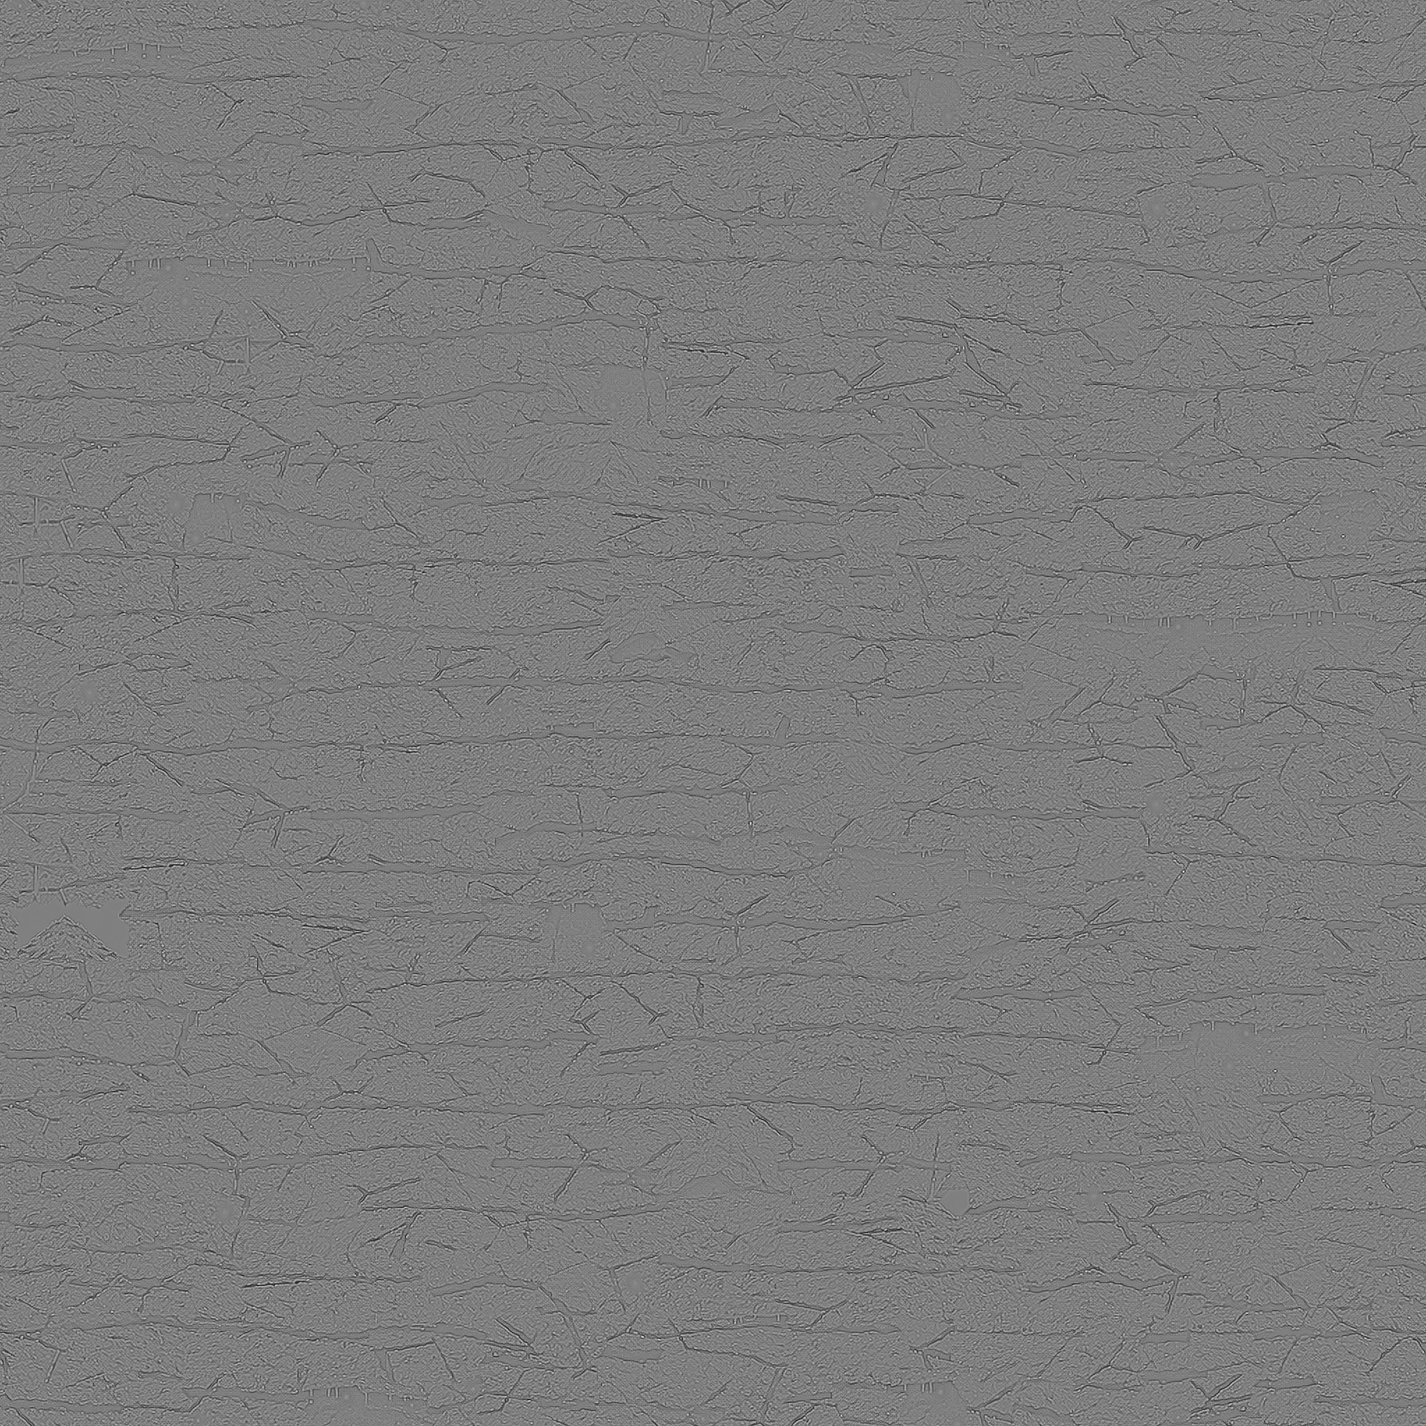
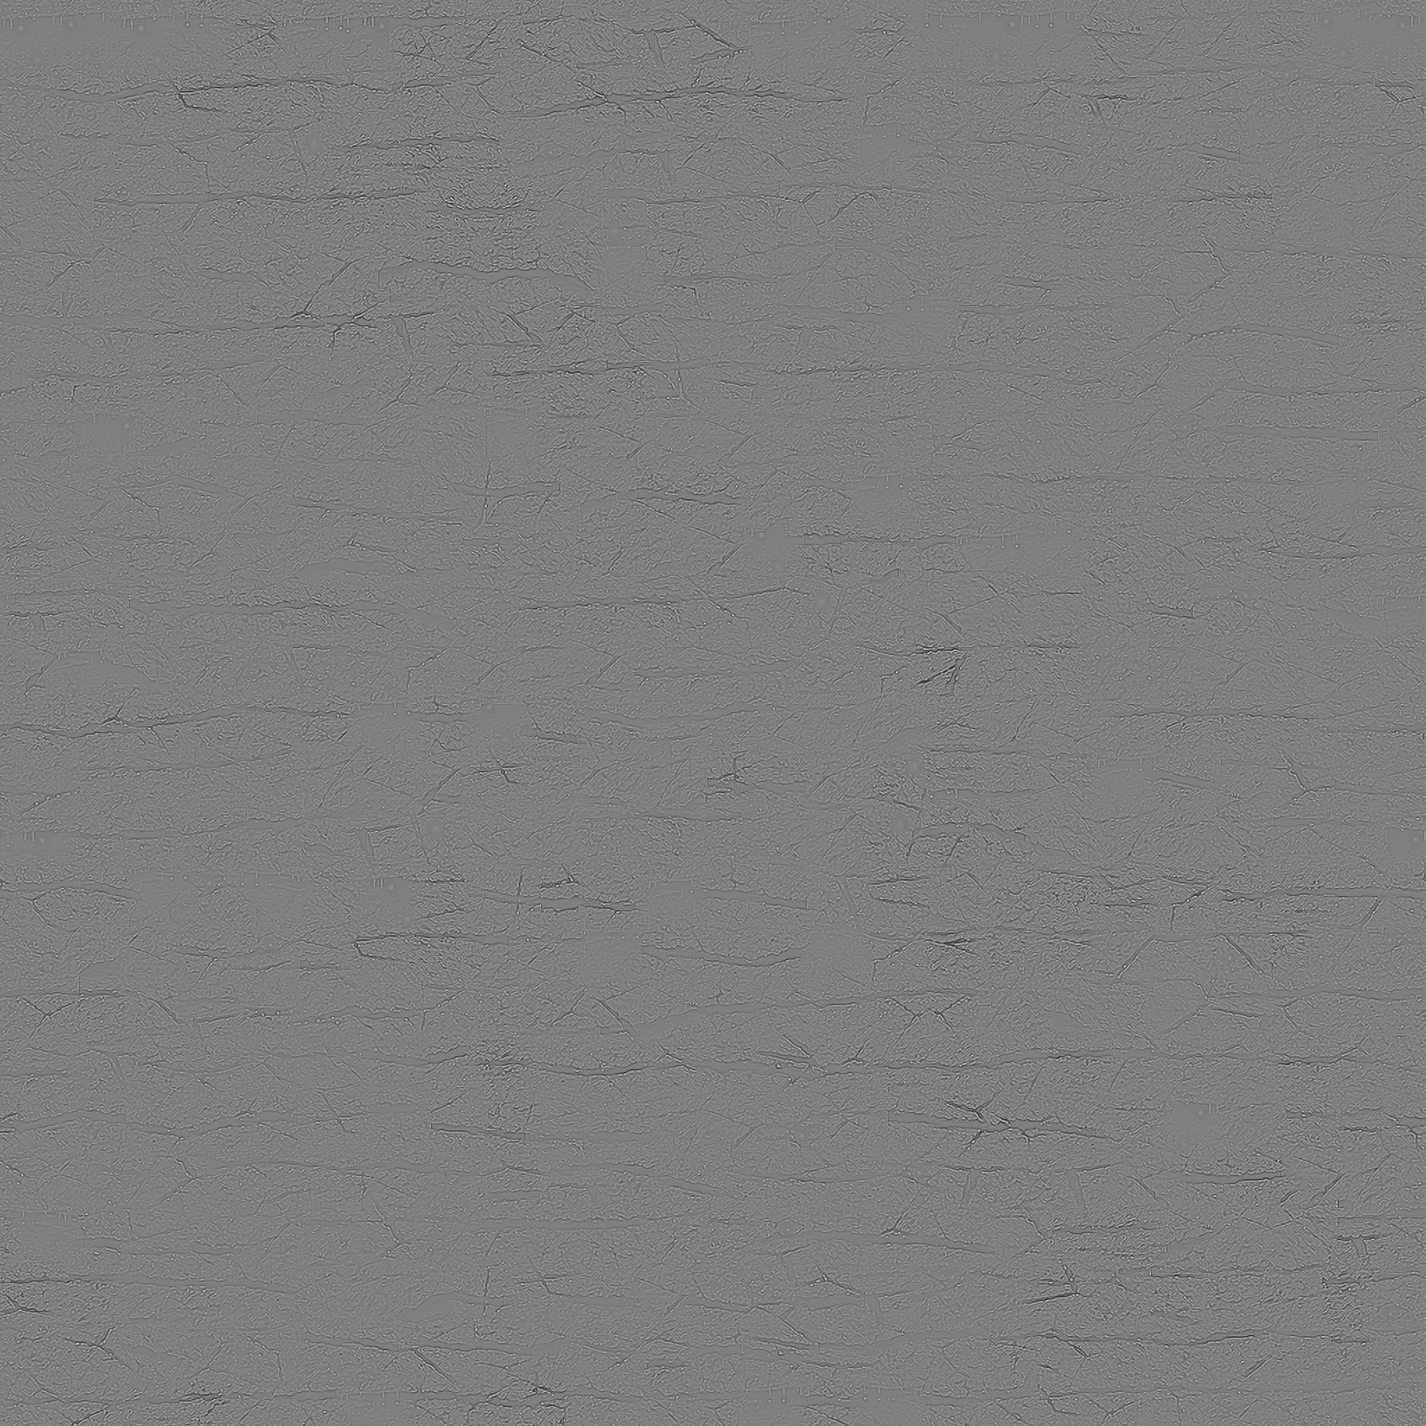
Версия 2026.10.16-21: артефакты карт — скелет вместо значка-«вайфай», вулкан без кусков неба в породе, базальт без «забора», тёмная шахта, останцы каньона и вулкана больше не висят (лестницы с обеих сторон), колонны под парковкой
Claude-Session: https://claude.ai/code/session_01JvXrYdG1XCH4i3GESsQzbh

Changed region(s): [[0.0, 0.0, 1.0, 1.0]]

diff --git a/js/levels.js b/js/levels.js
@@ -196,8 +196,9 @@ const MAP_CANYON = buildLevel({
   // останцы по краям плато — снайперские вышки с лестницами
   B.add(Sh.poly([[66, 970], [78, 800], [90, 720], [110, 690], [146, 694], [162, 730], [172, 820], [182, 910]], { mat: 'rock', rough: 3 }), Sh.ellipse(126, 684, 40, 18, { mat: 'rock', rough: 3 }));
   B.ladder(206, 668, 902);
-  B.add(Sh.poly([[4540, 962], [4550, 860], [4562, 780], [4582, 748], [4618, 752], [4630, 790], [4636, 880], [4630, 962]], { mat: 'rock', rough: 3 }), Sh.ellipse(4598, 742, 40, 18, { mat: 'rock', rough: 3 }));
-  B.ladder(4516, 726, 956);
+  /* останец стоит левее прохода к мосту: проход (cut у district) раньше срезал его основание, и скала висела в воздухе */
+  B.add(Sh.poly([[4386, 962], [4396, 860], [4408, 780], [4428, 748], [4464, 752], [4476, 790], [4482, 880], [4476, 962]], { mat: 'rock', rough: 3 }), Sh.ellipse(4444, 742, 40, 18, { mat: 'rock', rough: 3 }));
+  B.ladder(4362, 726, 956); B.ladder(4500, 726, 956);   /* останец перекрывает тропу к мосту — лестницы с обеих сторон */
   B.bridge(2330, 1548, 2470, 1548, { mat: 'wood', thick: 10, sag: 14, pal: PAL.lightWood, rails: true });
   // Великая арка
   B.add(Sh.band(1236, 904, 3514, 952, { thick: 100, sag: -470, mat: 'rock', rough: 5 }));
@@ -209,7 +210,7 @@ const MAP_CANYON = buildLevel({
   B.ladder(3940, 1152, 1358); B.ladder(4260, 946, 1152);
   B.tower(3700, 946, 150, { mat: 'wood', pal: PAL.lightWood, wall: 12, slab: 12, stories: [80], windows: false, found: 30 });
   B.decor(['cactus', 240, null, 1.1], ['watertower', 760], ['cactus', 980, null, 0.9], ['deadtree', 1180, null, 1], ['column', 1310, 1150, 1], ['column', 1270, 1150, 1], ['pot', 1100, 1150], ['pot', 1140, 1150, 0.8], ['skull', 1680, 1400],
-    ['cactus', 2100, null, 1], ['skull', 2600, null], ['cactus', 2960, null, 0.9], ['tumbleweed', 2700, null, 1], ['cactus', 3600, null, 1.2], ['deadtree', 4050, null, 0.9], ['watertower', 4450], ['cactus', 4560, null, 0.8]);
+    ['cactus', 2100, null, 1], ['skull', 2600, null], ['cactus', 2960, null, 0.9], ['tumbleweed', 2700, null, 1], ['cactus', 3600, null, 1.2], ['deadtree', 4050, null, 0.9], ['watertower', 4160], ['cactus', 4432, null, 0.8]);
   district(B, { from: [4650, 956], gy: 960, water: 1700, mat: 'brick', pal: P_SAND, cut: () => [Sh.cut(Sh.rect(4490, 902, 180, 52))], bridge: { mat: 'wood', pal: PAL.lightWood }, decor: [['cactus', 4970], ['cactus', 6190, null, 1.2], ['skull', 5900]], props: [['torch', 4990, 960], ['torch', 5770, 960]] });
 });
 
@@ -268,8 +269,9 @@ const MAP_VOLCANO = buildLevel({
   // базальтовое нагорье с рудником
   B.ground([[3420, 1810], [3426, 1600], [3434, 1400], [3444, 1300, 1], [3500, 1282], [3600, 1252], [3700, 1212], [3800, 1172], [3900, 1152], [4100, 1148], [4300, 1152], [4450, 1160], [4560, 1170], [4640, 1180, 1], [4652, 1300], [4660, 1500], [4668, 1810]], { mat: 'basalt', rough: 3 });
   B.tower(3960, 1150, 220, { mat: 'metal', pal: PAL.steel, wall: 14, slab: 14, stories: [100, 90], ladders: [40, 186], found: 40 });
-  B.add(Sh.poly([[4560, 1180], [4566, 1000], [4584, 960], [4620, 956], [4640, 1000], [4652, 1180]], { mat: 'basalt', rough: 1 }));
-  B.ladder(4536, 952, 1170);
+  /* столб левее прохода к мосту (cut у district срезал его основание — висел в воздухе) */
+  B.add(Sh.poly([[4446, 1180], [4452, 1000], [4470, 960], [4506, 956], [4526, 1000], [4532, 1180]], { mat: 'basalt', rough: 1 }));
+  B.ladder(4422, 952, 1170); B.ladder(4556, 952, 1170);   /* столб перекрывает тропу к мосту — лестницы с обеих сторон */
   B.tunnel([[3500, 1290], [3640, 1330], [3800, 1340], [3960, 1336], [4100, 1330], [4200, 1320]], 70, { arch: 6 });
   B.ladder(4150, 1150, 1322);
   B.decor(['deadtree', 260, null, 1.1], ['spike', 400, null, 1], ['obsidian', 900], ['deadtree', 1060, null, 0.9], ['bones', 1780], ['deadtree', 2000, null, 0.8], ['spike', 2800, null, 1.2], ['deadtree', 2950, null, 0.9], ['obsidian', 3600], ['deadtree', 3760, null, 1], ['bones', 4250], ['spike', 4560, null, 1.1]);
@@ -407,6 +409,8 @@ const MAP_CITY = buildLevel({
   house(1300, 200, 3, P_TOWER('#3c3a4a', '#ffcf70', 0.4), 30);
   // парковка: открытые перекрытия
   for (const y of [1420, 1340, 1260]) B.add(Sh.rect(1580, y, 380, 14, { mat: 'concrete', pal: { base: '#5a5e66', road: true } }));
+  /* многоярусная парковка: колонны за перекрытиями (задний план, не мешают ходить) — плиты больше не висят в воздухе */
+  for (const x of [1592, 1700, 1830, 1940]) B.add(Sh.rect(x, 1260, 12, 240, { mat: 'concrete', back: true, pal: { base: '#4a4e56' } }));
   B.ladder(1606, 1420, 1500); B.ladder(1934, 1340, 1420); B.ladder(1606, 1260, 1340);
   // эстакада над каналом
   B.add(Sh.rect(1480, 1194, 1200, 26, { mat: 'concrete', pal: { base: '#5a5e66', road: true } }));

diff --git a/js/decor.js b/js/decor.js
@@ -416,10 +416,36 @@ const DECOR = {
     if (g) { g.strokeStyle = 'rgba(255,90,20,0.8)'; g.lineWidth = 2; g.beginPath(); g.moveTo(x + 2, y - h * 0.2); g.lineTo(x - 2, y - h * 0.5); g.lineTo(x + 3, y - h * 0.7); g.stroke(); }
     c.strokeStyle = '#ff7a2a'; c.lineWidth = 0.8; c.beginPath(); c.moveTo(x + 2, y - h * 0.2); c.lineTo(x - 2, y - h * 0.5); c.lineTo(x + 3, y - h * 0.7); c.stroke();
   },
-  bones(c, g, x, y, s) {
-    c.strokeStyle = '#d9cfb8'; c.lineWidth = 2.2 * s; c.lineCap = 'round';
-    for (let i = 0; i < 4; i++) { c.beginPath(); c.arc(x, y + 2, (8 + i * 4) * s, Math.PI * 1.1, Math.PI * 1.45); c.stroke(); }
-    c.beginPath(); c.moveTo(x - 20 * s, y); c.lineTo(x + 6 * s, y - 2 * s); c.stroke();
+  bones(c, g, x, y, s, r) {
+    /* полузасыпанный скелет: позвоночник лежит на земле, рёбра поднимаются дугами и уходят концами в грунт, череп с глазницей.
+       Кость — выбеленная, с тёмным контуром и тенью снизу; рёбра разной длины и наклона */
+    const rr = r ? () => r() : Math.random, dir = rr() < 0.5 ? -1 : 1, L = 34 * s, y0 = y - 1.5 * s;
+    c.save(); c.lineCap = 'round'; c.lineJoin = 'round';
+    c.fillStyle = 'rgba(20,12,8,0.35)'; c.beginPath(); c.ellipse(x, y + 1, L * 0.62, 3.2 * s, 0, 0, TAU); c.fill();
+    const bone = (w, path) => { c.strokeStyle = '#3b2f24'; c.lineWidth = w + 1.6 * s; path(); c.stroke(); c.strokeStyle = '#cfc2a4'; c.lineWidth = w; path(); c.stroke(); c.strokeStyle = 'rgba(255,250,232,0.75)'; c.lineWidth = Math.max(0.6, w * 0.35); c.save(); c.translate(-0.4 * s, -0.5 * s); path(); c.stroke(); c.restore(); };
+    /* рёбра: от позвоночника вверх и наружу, концы утоплены */
+    const nR = 5 + Math.floor(rr() * 2);
+    for (let i = 0; i < nR; i++) {
+      const sx = x - L * 0.38 + i * (L * 0.62 / nR), h = (11 + rr() * 6) * s * (1 - Math.abs(i - nR / 2) / nR * 0.6), lean = (rr() - 0.5) * 4 * s + dir * 3 * s;
+      bone(1.5 * s * (1 - i * 0.04), () => { c.beginPath(); c.moveTo(sx, y0); c.bezierCurveTo(sx + lean - 4 * s, y0 - h * 0.9, sx + lean + 7 * s, y0 - h * 1.05, sx + lean + 9 * s, y + 1); });
+    }
+    /* позвоночник */
+    for (let i = 0; i < 9; i++) {
+      const vx = x - L * 0.48 + i * L * 0.11, vy = y0 + Math.sin(i * 0.7) * 0.8 * s;
+      c.fillStyle = '#3b2f24'; c.beginPath(); c.ellipse(vx, vy, 2.6 * s, 2.1 * s, 0, 0, TAU); c.fill();
+      c.fillStyle = i % 2 ? '#d6caae' : '#c7b998'; c.beginPath(); c.ellipse(vx - 0.3 * s, vy - 0.3 * s, 2.0 * s, 1.6 * s, 0, 0, TAU); c.fill();
+    }
+    /* череп на конце позвоночника */
+    const kx = x + dir * L * 0.55, ky = y - 3 * s;
+    c.save(); c.translate(kx, ky); c.scale(dir, 1);
+    c.fillStyle = '#3b2f24'; c.beginPath(); c.moveTo(-5 * s, -4 * s); c.quadraticCurveTo(2 * s, -7.5 * s, 11 * s, -2.5 * s); c.lineTo(12 * s, 1.5 * s); c.quadraticCurveTo(3 * s, 3.5 * s, -5 * s, 3 * s); c.closePath(); c.fill();
+    c.fillStyle = '#d3c6a8'; c.beginPath(); c.moveTo(-4 * s, -3.2 * s); c.quadraticCurveTo(2 * s, -6.5 * s, 10.3 * s, -2 * s); c.lineTo(11 * s, 1 * s); c.quadraticCurveTo(3 * s, 2.6 * s, -4 * s, 2.2 * s); c.closePath(); c.fill();
+    c.fillStyle = '#2a201a'; c.beginPath(); c.ellipse(1.5 * s, -2 * s, 1.8 * s, 1.3 * s, -0.2, 0, TAU); c.fill();
+    c.fillStyle = 'rgba(255,250,230,0.6)'; c.fillRect(-2 * s, -4.5 * s, 7 * s, 0.8 * s);
+    c.restore();
+    /* засыпка: песок/пепел поверх нижних концов */
+    c.fillStyle = 'rgba(60,44,34,0.55)'; for (let i = 0; i < 7; i++) { c.beginPath(); c.ellipse(x - L * 0.5 + i * L * 0.17 + rr() * 3, y + 0.5, (3 + rr() * 3) * s, 1.4 * s, 0, 0, TAU); c.fill(); }
+    c.restore();
   },
   obsidian(c, g, x, y, s, r) {
     c.fillStyle = hgrad(c, x - 10 * s, x + 10 * s, ['#3a2e4a', '#16121c', '#050407']);

diff --git a/js/terrain_visual.js b/js/terrain_visual.js
@@ -152,6 +152,10 @@ function caveAO(m, i, W, y, bk, H) {
   let k = 1;
   for (let q = 1; q < 70; q++) if (y - q >= 0 && m[i - q * W]) { const t = q / 70; k = 0.52 + 0.48 * t * (2 - t); break; }
   for (let q = 1; q < 40; q++) if (y + q < H && m[i + q * W]) { k *= 1 + 0.22 * (1 - q / 40) * (1 - q / 40); break; }
+  /* узкая шахта (стены слева и справа ближе 110 px): свет туда почти не доходит — задняя стена темнее, особенно у боковых стен */
+  const x = i - y * W; let l = 0, r = 0;
+  for (let q = 1; q <= 110; q++) { if (!l && x - q >= 0 && m[i - q]) l = q; if (!r && x + q < W && m[i + q]) r = q; if (l && r) break; }
+  if (l && r && l + r >= 70) { const wdt = l + r, edge = Math.min(l, r) / (wdt / 2); k *= (0.58 + 0.2 * Math.min(1, wdt / 220)) * (0.78 + 0.22 * Math.sqrt(edge)); }   /* узкие лазы под лестницу не трогаем — они и так тёмные */
   return k;
 }
 /** нерезкое маскирование 3×3 (только внутри непрозрачных областей, без ореолов по краю) */
@@ -581,6 +585,11 @@ function shadeMaterial(S, mt, x, y, t, capT, d, info, o, isBack) {
         break;
       }
       case 9: { // базальтовые столбы со скруглёнными гранями
+        if (S.tx.rock) {
+          /* та же фото-порода, что у скал темы (как в эталоне), без нарисованных столбов: ровные полосы выглядели как забор или кладка */
+          texAt(S.tx.rock, x + 377, y + 211, o); r = o.r * S.tgR; g = o.g * S.tgG; bl = o.b * S.tgB; o.tex = true;
+          break;
+        }
         const cw = 16; const col = Math.floor(x / cw); const hh = hash3(col, 0, 4);
         const fx = x - col * cw; const yy = y + hh * 60; const seg = Math.floor(yy / 46); const fy = yy - seg * 46;
         const c = S.rockC[col % S.RL]; let f = 0.86 + hash3(col, seg, 8) * 0.28;

diff --git a/index.html b/index.html
@@ -29,7 +29,7 @@
       <div class="menu-facts"><div><strong>41</strong><span>вида оружия<br>и снаряжения</span></div><div><strong>08</strong><span>постоянных<br>полей боя</span></div><div><strong>02</strong><span>игрока.<br>один победитель.</span></div></div>
     </div>
     <div class="featured-map"><span class="eyebrow">ВЫБЕРИ СВОЁ ПОЛЕ БОЯ</span><div class="featured-title"><span id="featured-number">01 / 08</span><h2 id="featured-name">Зелёная долина</h2><div><button class="arrow-btn" data-act="map-prev" aria-label="Предыдущая карта">←</button><button class="arrow-btn" data-act="map-next" aria-label="Следующая карта">→</button></div></div><p id="featured-desc">Мельница на холме, пруд с мостом и тоннель под большим холмом</p><div class="map-dots" id="map-dots"></div><div class="static-label">◇ Фиксированная карта · Разрушаемое окружение</div></div>
-    <footer class="menu-footer"><span id="game-version">ВЕРСИЯ 2026.10.02-20</span><span>ПЛАНИРУЙ ХОД. МЕНЯЙ ЛАНДШАФТ.</span><span class="footer-status"><i></i> ГОТОВ К БОЮ</span></footer>
+    <footer class="menu-footer"><span id="game-version">ВЕРСИЯ 2026.10.16-21</span><span>ПЛАНИРУЙ ХОД. МЕНЯЙ ЛАНДШАФТ.</span><span class="footer-status"><i></i> ГОТОВ К БОЮ</span></footer>
   </section>
 
   <!-- Онлайн -->

diff --git a/dev/tex_from_ref.py b/dev/tex_from_ref.py
@@ -10,6 +10,7 @@ python dev/tex_from_ref.py <эталон.png> <выход.png> <масштаб> 
 Их значения можно задать через PATCH_SIZE, OVERLAP, FEATHER, SEED, CANDIDATES,
 MIRROR, BRIGHTNESS, REUSE_PENALTY. FEATHER — радиус: 24 означает полосу смешивания в 49 px.
 DESPECKLE=1 убирает одиночные яркие точки снега/искр до синтеза.
+SKYMASK=1 не берёт лоскуты с кусками неба/фона (голубые пиксели).
 """
 import argparse
 import math
@@ -18,6 +19,8 @@ import numpy as np
 from PIL import Image, ImageFilter
 
 DESPECKLE = os.environ.get('DESPECKLE', '').lower() not in ('', '0', 'false', 'no')
+# SKYMASK=1: отбрасывать лоскуты, где попалось небо или дальний фон эталона (голубые пиксели)
+SKYMASK = os.environ.get('SKYMASK', '').lower() not in ('', '0', 'false', 'no')
 
 
 def load_sources(path, boxes, scale):
@@ -155,6 +158,9 @@ def quilt(srcs, size, B, O, seed=1, cands=64, feather=24, mirror=0.35, brightnes
                 height, width = s.shape[:2]
                 sy, sx = int(rng.integers(height - B + 1)), int(rng.integers(width - B + 1))
                 p = s[sy:sy + B, sx:sx + B]
+                if SKYMASK:
+                    q = p[::4, ::4]; sky = ((q[..., 2] > q[..., 0] + 12) & (q[..., 2] > 70)).mean()
+                    if sky > 0.004: continue
                 if rng.random() < mirror:
                     p = p[:, ::-1]
                 adjustment = 0.0

diff --git a/dev/NEXT_STEPS.md b/dev/NEXT_STEPS.md
@@ -4,6 +4,10 @@
 
 Последняя завершённая версия: **2026.10.02-18** (игровые правки по просьбе пользователя и первые родные текстуры ×4, см. ниже). Рабочая папка **D:\Територивар**, ветка **claude/hopeful-dirac-byxv27**. Это точка продолжения, а не завершение всего проекта.
 
+## Артефакты карт (B1) — ход работы 16.10
+- Критик осмотрел все 8 карт (отчёт — в истории чата; кадры test-results/map-crop). Исправлено: значки-«вайфай» (рёбра скелета) → полузасыпанный скелет (decor.js bones); куски неба в текстуре вулкана → пересборка `SKYMASK=1 dev/tex_from_ref.py` без лоскутов с небом; базальт вулкана «доски/забор» → фото-порода темы (terrain_visual case 9); широкие шахты (вулкан) темнее — caveAO учитывает боковые стены (ширина ≥70 px); висящие останцы каньона/вулкана: проход district.cut срезал их основание → столбы сдвинуты левее, лестницы с обеих сторон (тропа к мосту теперь через верх столба); парковка города — колонны заднего плана под плитами.
+- Ещё не исправлено (по заметности): город — нижний этаж дома x5000–5760 под асфальтом, вертикальные швы затемнения туннеля x≈300 и x≈4500, опора моста x≈4825 обрывается; каньон — конец арки оторван от плато x≈3456–3478, кирпичный кубик x422–569, обломок крыши x1300–1360; арктика — ледяная плита-«стекло» x3400–3900, красная труба на пике x2184–2304; пиратская — сплошная зелёная полоса у ватерлинии x1511–2678 с круглой дырой x2189–2271, пальма сквозь грунт x6211–6233; alien — ножка гриба сквозь грунт x6156–6256, прорезь в острове x2222–2256; castles — повтор «ёлочки» в породе; valley — круглые дырки в мосту x≈2300/2500 y≈1378; общее — висящая верёвочная лестница в правой пропасти x≈4730–4830 (до воды не доходит).
+
 ## Просьбы пользователя от 02.10 — ещё не сделано (в этом порядке)
 
 1. **Артефакты карт**: неприкреплённые (висящие) объекты, ошибочные лишние текстуры и т. п. — проверить все 8 карт внимательно (программная проверка опоры декора + осмотр критиком).
